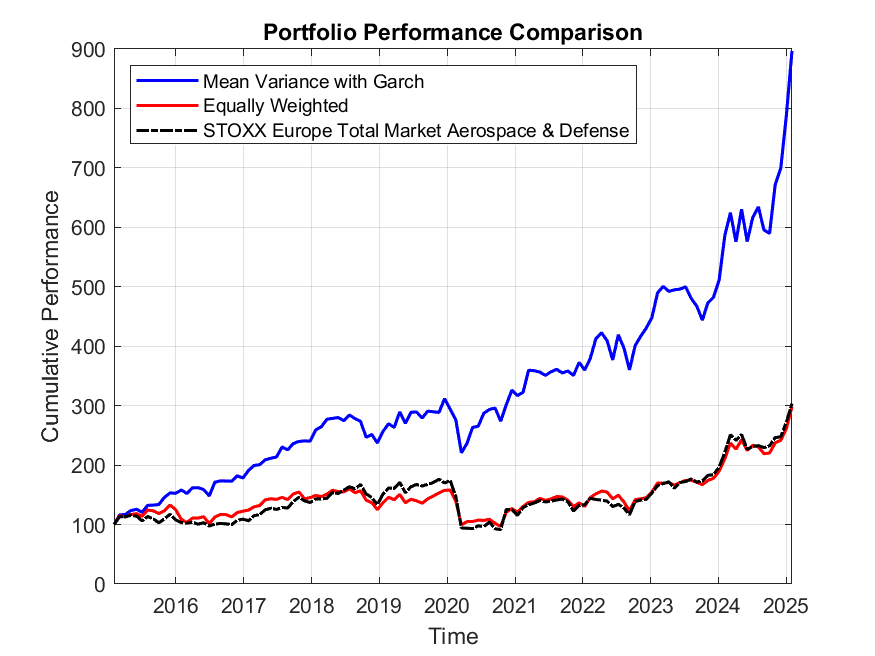
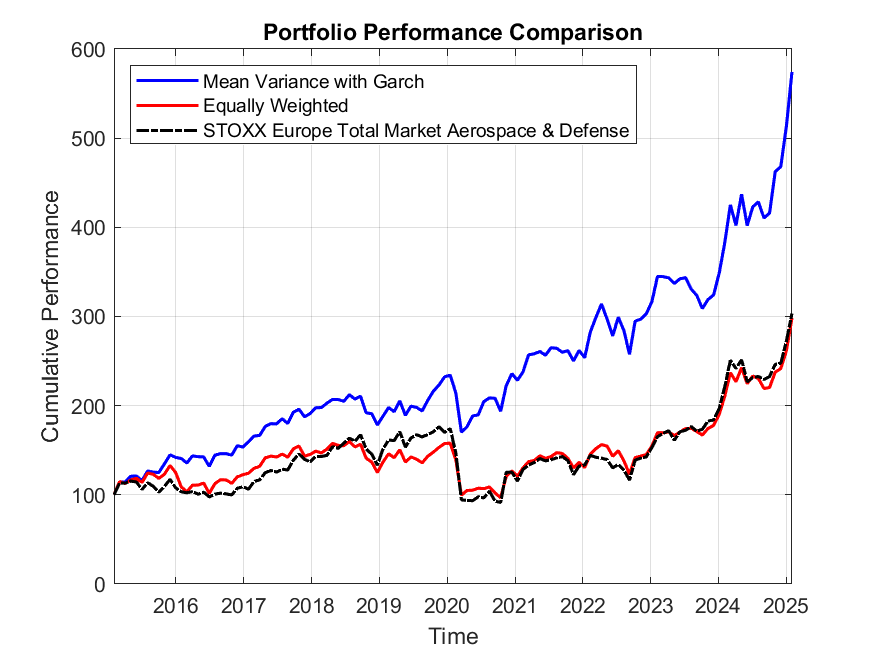
Add files via upload

diff --git a/Assignment_9.m b/Assignment_9.m
@@ -75,7 +75,7 @@ objective = @(weights_MV) -(Mean*weights_MV - Rf(end)) / sqrt(weights_MV' * VARC
 %Set constraints
 A = []; b = [];  % No inequality constraints in this case\
 Aeq = ones(1,No_Assets); beq = 1;  % weights sum to 1
-lb = zeros(No_Assets,1); ub = 0.3 * ones(No_Assets,1);  % 0 ≤ weights ≤ 0.3
+lb = zeros(No_Assets,1); ub = 0.10 * ones(No_Assets,1);  % 0 ≤ weights ≤ 0.1
 
 % Optimization
 options = optimset('Display', 'off');
@@ -117,23 +117,24 @@ for i = 1 : size(Returns, 1)
     weights_MV = ones(No_Assets,1)/No_Assets;
 
     Returns_Help_adj = Returns_Help;
-    Returns_Help_adj(isnan(Returns_Help_adj)) = 0; 
+    Mean_rolling = mean(Returns_Help_adj,1,'omitnan');
+    Mean_rolling(isnan(Mean_rolling)) = 0;
     objective = @(weights_MV) -(Mean*weights_MV - Rf(i)) / sqrt(weights_MV' * VARCOV * weights_MV);  % Negative Sharpe Ratio to minimize
-    %objective = @(weights_MV) -(mean(Returns_Help_adj,1)*weights_MV - Rf(i)) / sqrt(weights_MV' * VARCOV * weights_MV);  % Negative Sharpe Ratio to minimize
+    %objective = @(weights_MV) -(Mean_rolling*weights_MV - Rf(i)) / sqrt(weights_MV' * VARCOV * weights_MV);  % Negative Sharpe Ratio to minimize
 
 
     %Set constraints
     A = []; b = [];  % No inequality constraints in this case\
     Aeq = ones(1,No_Assets); beq = 1;  % weights sum to 1
-    lb = zeros(No_Assets,1); ub = 0.3 * ones(No_Assets,1);  % 0 ≤ weights ≤ 0.3
+    lb = zeros(No_Assets,1); ub = 0.10 * ones(No_Assets,1);  % 0 ≤ weights ≤ 0.1
 
     % Optimization
     options = optimset('Display', 'off');
     [w_MV, sr_MV] = fmincon(objective, weights_MV, A, b, Aeq, beq, lb, ub, [], options);
     w_MV(w_MV < 0.001) = 0;        %set to 0 very small values
     w_MV = w_MV/sum(w_MV);        %Rebalance weights
-    weights_backtest_MV(i,:) = w_MV;
-    sum_w(i) = sum(weights_backtest_MV(i,:));
+    weights_backtest_MV(i,:) = w_MV;                 %historical weights stored in a matrix
+    sum_w(i) = sum(weights_backtest_MV(i,:));        %check if weights sum to 1 for each period
 
     if i==1
         TC = sum(abs(w_MV))*0.0005;
